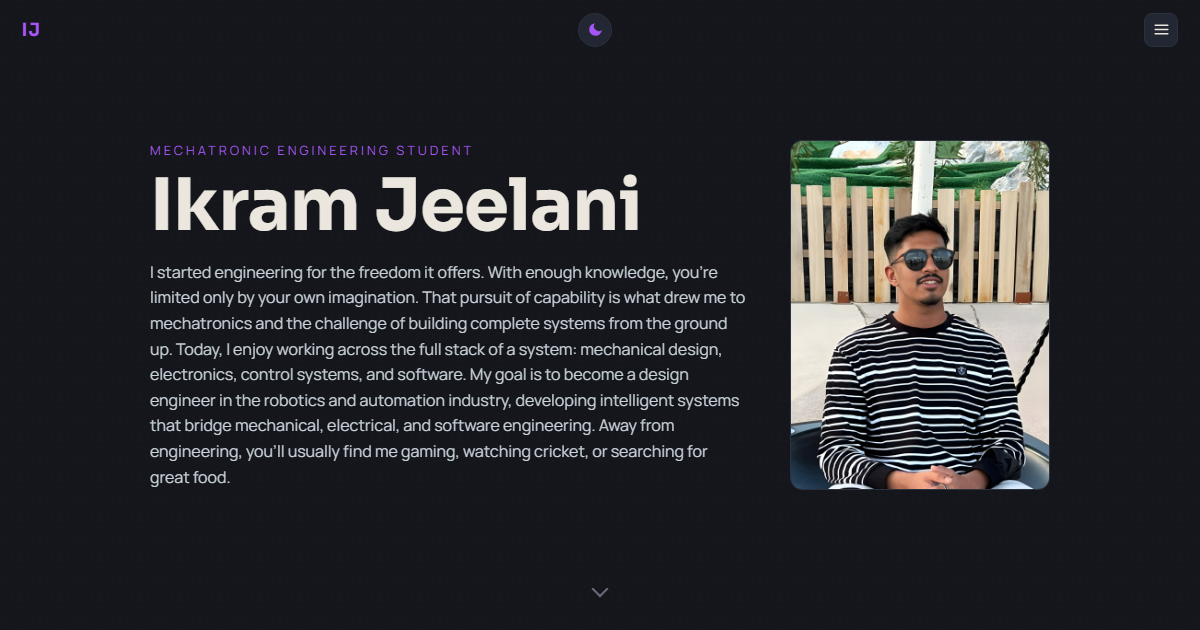
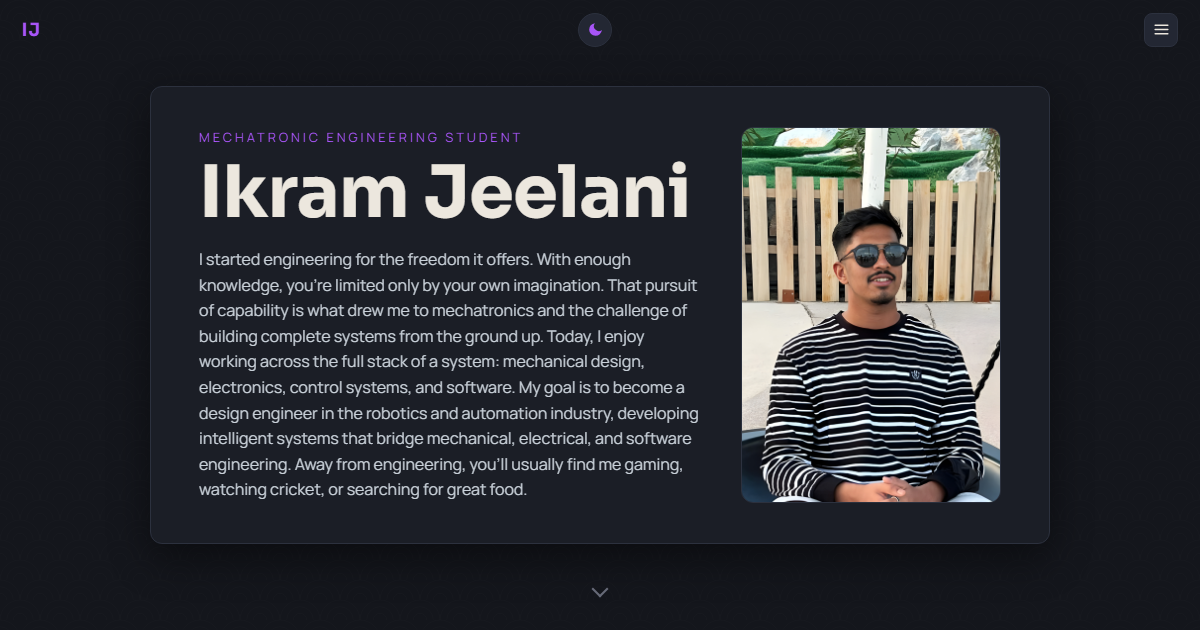
Wrap the hero name/about/photo in a card, matching project/cert cards
.hero-right now uses the same background/border/radius/shadow treatment
as .card, .tl-card, .edu-card, and .project-page instead of sitting
directly on the page background.

Changed region(s): [[0.1233, 0.181, 0.8942, 0.8143]]

diff --git a/styles.css b/styles.css
@@ -363,6 +363,13 @@ h1, h2, h3,
   flex-direction: column;
   align-items: center;
   text-align: center;
+  /* Same card treatment as the rest of the site (.card, .tl-card, .edu-card,
+     .project-page): background/border/radius/shadow off the shared tokens. */
+  background: var(--card);
+  border: 1px solid var(--border);
+  border-radius: var(--radius);
+  box-shadow: var(--shadow);
+  padding: 2.5rem 3rem;
 }
 .hero-text { max-width: 600px; }
 .hero-text .subtitle { margin: 0 auto; }
@@ -386,6 +393,7 @@ h1, h2, h3,
     text-align: center;
   }
   .hero-right.has-photo .hero-about-photo { width: 200px; height: 200px; }
+  .hero-right { padding: 2rem 1.5rem; }
 }
 /* Short viewports (landscape phones, small laptops with the window snapped):
    don't force a full-screen hero — let it size to its content. */
